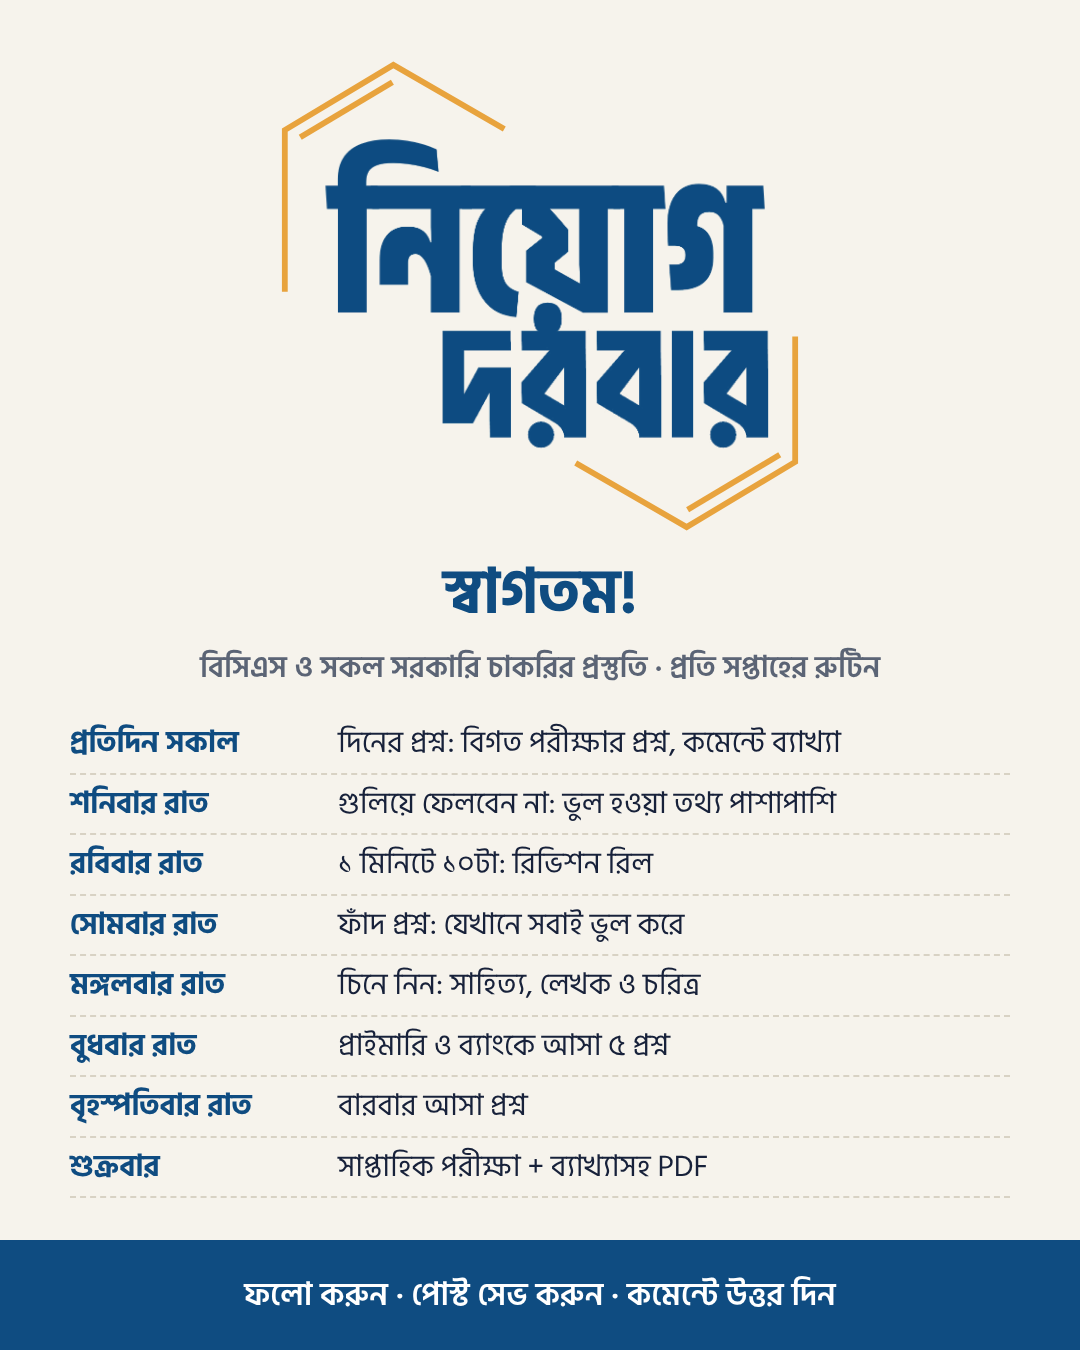
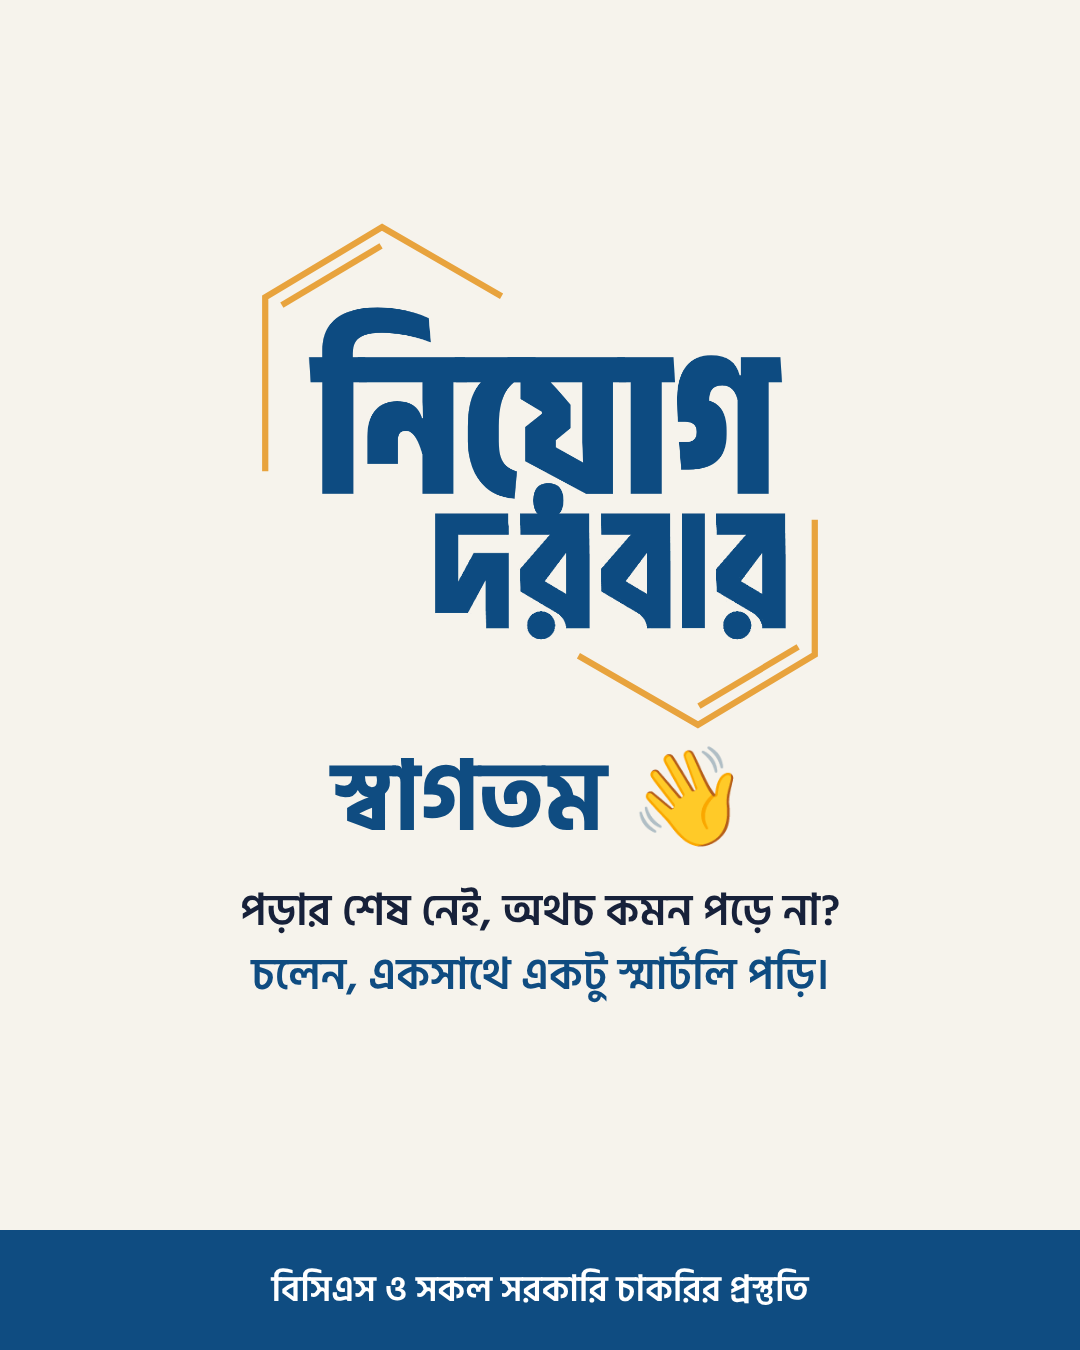
Casual welcome post: new image and caption without the routine list
Claude-Session: https://claude.ai/code/session_012vHy4GxfucFJkm8wC69HNg

Changed region(s): [[0.0611, 0.0311, 0.825, 0.8711], [0.0, 0.9022, 1.0, 0.9644], [0.3056, 0.8089, 0.6722, 0.8711]]

diff --git a/job_prep_bangla/tools/make_logo.py b/job_prep_bangla/tools/make_logo.py
@@ -41,24 +41,15 @@ cover = f"""<div style="width:1640px;height:624px;background:linear-gradient(120
 <div style="margin-top:22px;font-size:26px;color:#f3d29b;font-weight:600">দিনের প্রশ্ন · বিগত প্রশ্নের ব্যাখ্যা · সাপ্তাহিক পরীক্ষা · মাসিক PDF</div></div></div></div>"""
 page("facebook_cover_1640x624", cover, 1640, 624)
 
-# pinned welcome post (1080x1350)
-s3 = 520 / vw
+# pinned welcome post (1080x1350): casual, no routine list
+s3 = 560 / vw
 svg_w, _, _ = L.logo_html(NAVY, GOLD, scale=s3)
-rows = [("প্রতিদিন সকাল", "দিনের প্রশ্ন: বিগত পরীক্ষার প্রশ্ন, কমেন্টে ব্যাখ্যা"),
-        ("শনিবার রাত", "গুলিয়ে ফেলবেন না: ভুল হওয়া তথ্য পাশাপাশি"),
-        ("রবিবার রাত", "১ মিনিটে ১০টা: রিভিশন রিল"),
-        ("সোমবার রাত", "ফাঁদ প্রশ্ন: যেখানে সবাই ভুল করে"),
-        ("মঙ্গলবার রাত", "চিনে নিন: সাহিত্য, লেখক ও চরিত্র"),
-        ("বুধবার রাত", "প্রাইমারি ও ব্যাংকে আসা ৫ প্রশ্ন"),
-        ("বৃহস্পতিবার রাত", "বারবার আসা প্রশ্ন"),
-        ("শুক্রবার", "সাপ্তাহিক পরীক্ষা + ব্যাখ্যাসহ PDF")]
-tbl = "".join(f"<div style='display:flex;gap:18px;padding:9px 0;border-bottom:2px dashed #d8d2c4'><b style='flex:none;width:250px;color:{NAVY}'>{a}</b><span>{b}</span></div>" for a, b in rows)
-welcome = f"""<div style="width:1080px;height:1350px;background:#f6f3ec;color:#17213a;display:flex;flex-direction:column;align-items:center;padding:60px 70px 0">
+welcome = f"""<div style="width:1080px;height:1350px;background:#f6f3ec;color:#17213a;display:flex;flex-direction:column;align-items:center;padding:0 70px;text-align:center">
+<div style="flex:1;display:flex;flex-direction:column;align-items:center;justify-content:center">
 <div>{svg_w}</div>
-<div style="font-size:62px;font-weight:700;color:{NAVY};margin-top:4px">স্বাগতম!</div>
-<div style="font-size:30px;font-weight:600;color:#5b6475;margin-bottom:22px">বিসিএস ও সকল সরকারি চাকরির প্রস্তুতি · প্রতি সপ্তাহের রুটিন</div>
-<div style="width:100%;font-size:30px;line-height:1.35">{tbl}</div>
-<div style="margin-top:auto;width:1080px;height:110px;background:{NAVY};color:#fff;display:flex;align-items:center;justify-content:center;font-size:32px;font-weight:600">ফলো করুন · পোস্ট সেভ করুন · কমেন্টে উত্তর দিন</div></div>"""
+<div style="font-size:96px;font-weight:700;color:{NAVY};margin-top:10px;line-height:1.1">স্বাগতম 👋</div>
+<div style="font-size:44px;font-weight:600;line-height:1.45;margin-top:26px">পড়ার শেষ নেই, অথচ কমন পড়ে না?<br><span style="color:{NAVY}">চলেন, একসাথে একটু স্মার্টলি পড়ি।</span></div></div>
+<div style="width:1080px;height:120px;background:{NAVY};color:#fff;display:flex;align-items:center;justify-content:center;font-size:36px;font-weight:600">বিসিএস ও সকল সরকারি চাকরির প্রস্তুতি</div></div>"""
 page("welcome_post_1080x1350", welcome, 1080, 1350, css="body{background:#f6f3ec}")
 (OUT / "jobs.json").write_text(json.dumps(jobs))
 subprocess.run(["node", str(T / "logo_render.cjs"), str(OUT / "jobs.json")], check=True)
